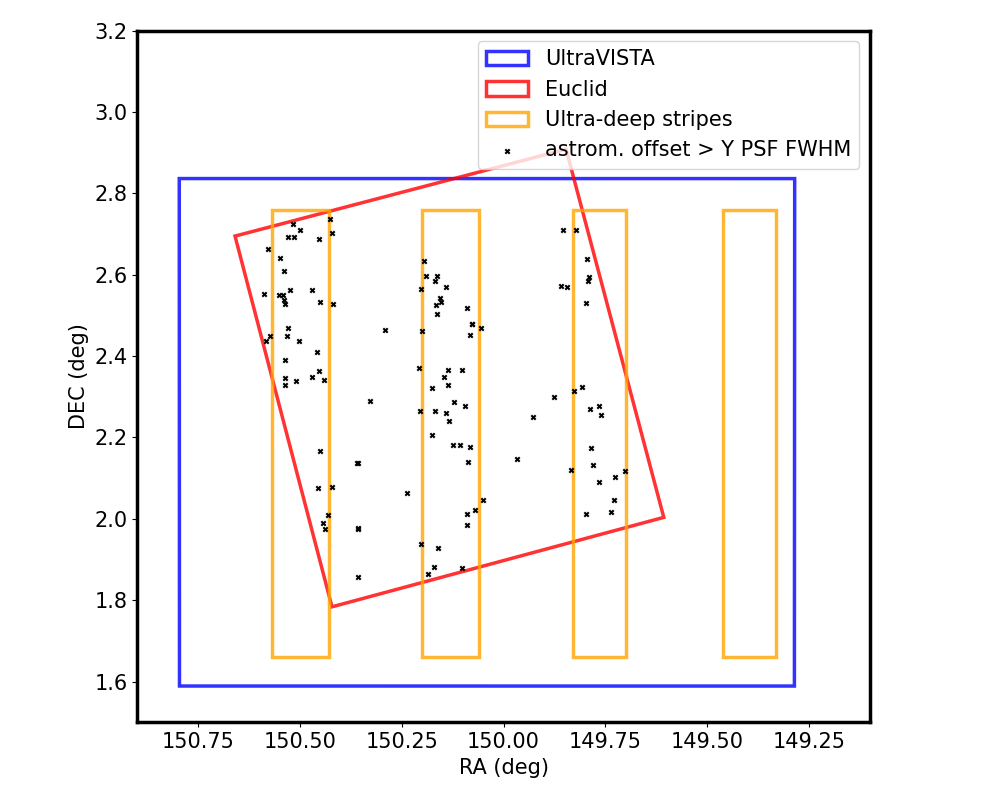
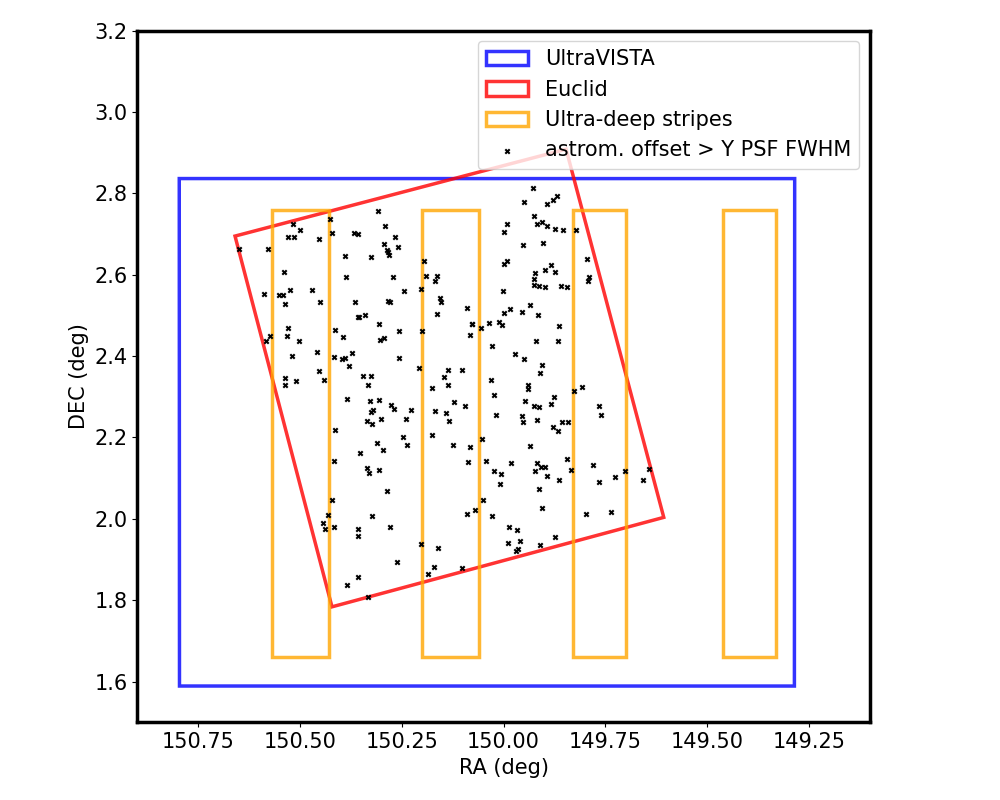
added jwst astrometry check

diff --git a/src/validation/astrometric_accurary.py b/src/validation/astrometric_accurary.py
@@ -21,8 +21,19 @@ plt.rcParams['figure.dpi'] = 100
 stars_dir = Path.cwd().parent.parent / 'data' / 'ref_catalogues' / 'stars'
 plot_dir = Path.cwd().parent.parent / 'plots' / 'astrometry'
 
-# Run Gaia crossmatched stars or VISTA crossmatched stars? If False, run VISTA
+# Run Gaia crossmatched stars?
 gaia = False
+
+# Run VISTA crossmatches stars?
+vista = False
+
+# rUN JWST crossmatched stars?
+jwst = True
+jwst_filter_dict = {
+    'Y': 'f115w',
+    'J': 'f150w',
+    'H': 'f200w'
+}
 
 psf_fwhm = [0.48, 0.51, 0.55] # Taken from pipeline PSFs, psf_fwhm_plots.py 0.21, 
 
@@ -36,17 +47,22 @@ for i, filter_name in enumerate(filter_names):
     if gaia:
         stars_file = stars_dir / f'{filter_name}_euclid_gaia_coords.ascii' #! Stars used for PSFEx 
         #stars_file = stars_dir / f'{filter_name}_brightEuclid_gaia_coords.ascii' #! Brighter stars (inc. saturated)
-    else:
+    if vista:
         stars_file = stars_dir / f'{filter_name}_vista_euclid_coords.ascii'
+    if jwst:
+        stars_file = stars_dir / f'{filter_name}_jwst_euclid_coords.ascii'
     stars = ascii.read(stars_file)
 
     # Calculate the difference between the RA and DEC
     if gaia:
         delta_ra = stars['RA_euclid'] - stars['RA_Gaia']
         delta_dec = stars['DEC_euclid'] - stars['DEC_Gaia']
-    else:
+    if vista:
         delta_ra = stars['RA_euclid'] - stars['RA_vista']
         delta_dec = stars['DEC_euclid'] - stars['DEC_vista']
+    if jwst:
+        delta_ra = stars['RA_jwst'] - stars['RA_euclid']
+        delta_dec = stars['DEC_jwst'] - stars['DEC_euclid']
 
     # Convert delta coords to arcsec
     delta_ra *= 3600
@@ -59,8 +75,10 @@ for i, filter_name in enumerate(filter_names):
     plt.ylabel(r'$\Delta \mathrm{Dec \ (as)}$')
     if gaia:
         plt.title(f'{filter_name} - Euclid vs Gaia')
-    else:
+    if vista:
         plt.title(f'{filter_name} - Euclid vs VISTA')
+    if jwst:
+        plt.title(f'{filter_name} - Euclid vs JWST ({jwst_filter_dict[filter_name]})')
 
     # Plot a circle corresponding to the Euclid pixel scale
     circle1 = plt.Circle((0, 0), 0.1/2, color='r', fill=False, linewidth=2.5)
@@ -73,7 +91,8 @@ for i, filter_name in enumerate(filter_names):
     # Find the subset of stars that lie outside the Euclid pixel scale and the FWHM
     outside = np.where((np.sqrt(delta_ra**2 + delta_dec**2) > psf_fwhm[filter_names.index(filter_name)]/2))[0]
 
-    print(len(outside))
+    # How many bad objects?
+    #print(len(outside))
 
     # Plot these in red on the plot
     plt.scatter(delta_ra[outside], delta_dec[outside], s=1, marker='x', color='red', alpha=0.6)
@@ -81,16 +100,25 @@ for i, filter_name in enumerate(filter_names):
     # Save these to a file
     if gaia:
         outside_file = stars_dir / f'{filter_name}_outside_pixscale_euclid_gaia_coords.ascii'
-    else:
+    if vista:
         outside_file = stars_dir / f'{filter_name}_outside_pixscale_vista_euclid_coords.ascii'
+    if jwst:
+        outside_file = stars_dir / f'{filter_name}_outside_pixscale_jwst_euclid_coords.ascii'
 
     with open(outside_file, 'w') as f:
-        f.write('# RA_euclid DEC_euclid RA_vista DEC_vista\n')
+        if vista:
+            f.write('# RA_euclid DEC_euclid RA_vista DEC_vista\n')
+        if gaia:
+            f.write('# RA_euclid DEC_euclid RA_Gaia DEC_Gaia\n')
+        if jwst:
+            f.write('# RA_euclid DEC_euclid RA_jwst DEC_jwst\n')
         for i in outside:
             if gaia:
                 f.write(f'{stars["RA_euclid"][i]} {stars["DEC_euclid"][i]} {stars["RA_Gaia"][i]} {stars["DEC_Gaia"][i]}\n')
-            else:
+            if vista:
                 f.write(f'{stars["RA_euclid"][i]} {stars["DEC_euclid"][i]} {stars["RA_vista"][i]} {stars["DEC_vista"][i]}\n')
+            if jwst:
+                f.write(f'{stars["RA_euclid"][i]} {stars["DEC_euclid"][i]} {stars["RA_jwst"][i]} {stars["DEC_jwst"][i]}\n')
 
     # Dummy plots for the legend
     plt.plot([-99, -98], [-99, -98], color='r', lw=2.5, label='Euclid pixel scale')
@@ -104,11 +132,12 @@ for i, filter_name in enumerate(filter_names):
     plt.tight_layout()
     plt.legend()
 
-    #if gaia:
-    #    plt.savefig(plot_dir / f'{filter_name}_bright_delta_ra_dec.png')
-    #else:
-    #    plt.savefig(plot_dir / f'VISTA_{filter_name}_delta_ra_dec.png')
-    #plt.close()
+    if gaia:
+        plt.savefig(plot_dir / f'{filter_name}_bright_delta_ra_dec.png')
+    if vista:
+        plt.savefig(plot_dir / f'VISTA_{filter_name}_delta_ra_dec.png')
+    if jwst:
+        plt.savefig(plot_dir / f'JWST_{filter_name}_{jwst_filter_dict[filter_name]}_delta_ra_dec.png')
 
     plt.show()
-    #plt.close()
+    plt.close()

diff --git a/src/validation/crossmatch_jwst_stars.py b/src/validation/crossmatch_jwst_stars.py
@@ -1,0 +1,60 @@
+#!/usr/bin/env python3
+
+"""
+crossmatch_jwst_stars.py
+
+Created: Wednesday 17th April 2024.
+"""
+
+
+from astropy.io import fits, ascii
+from astropy.table import Table
+from pathlib import Path
+import astropy.units as u
+from astropy.coordinates import SkyCoord
+
+jwst_dir = Path.home().parent.parent / 'vardy' / 'vardygroupshare' / 'data' / 'psf' / 'COSMOS' / 'catalogues'
+euclid_dir = Path.cwd().parent.parent / 'data' / 'psf' / 'COSMOS' / 'catalogues'
+save_dir = Path.cwd().parent.parent / 'data' / 'ref_catalogues' / 'stars'
+
+filter_names = ['Y', 'J', 'H']
+jwst_filters = ['f115w', 'f150w', 'f200w']
+
+for i, filter_name in enumerate(filter_names):
+
+    # Open corresponding jwst stars catalogue
+    jwst_stars_file = jwst_dir / f'{jwst_filters[i]}_stars.fits'
+    jwst_stars = Table.read(jwst_stars_file)
+    print(jwst_stars)
+
+    jwst_ra, jwst_dec = jwst_stars['ALPHA_J2000'], jwst_stars['DELTA_J2000']
+
+    # And the euclid stars
+    euclid_stars_file = euclid_dir / f'{filter_name}_stars.ascii'
+    euclid_stars = ascii.read(euclid_stars_file)
+
+    euclid_ra, euclid_dec = euclid_stars['RA'], euclid_stars['DEC']
+
+    # Crossmatch between jwst and euclid coords within 2 arcsec
+    jwst_coords = SkyCoord(ra=jwst_ra, dec=jwst_dec, unit=(u.deg, u.deg))
+    euclid_coords = SkyCoord(ra=euclid_ra, dec=euclid_dec, unit=(u.deg, u.deg))
+
+    idx_jwst, idx_euclid, d2d, d3d = euclid_coords.search_around_sky(jwst_coords, seplimit=2*u.arcsec)
+
+    # Write matches to a new file with both coordinates
+    crossmatch_file = save_dir / f'{filter_name}_jwst_euclid_coords.ascii'
+
+    with open(crossmatch_file, 'w') as f:
+            
+            # Add header for RA_jwst, DEC_jwst, RA_euclid, DEC_euclid
+            f.write('# RA_jwst DEC_jwst RA_euclid DEC_euclid\n')
+    
+            for i, idx in enumerate(idx_jwst):
+                f.write(f'{jwst_ra[idx]} {jwst_dec[idx]} {euclid_ra[idx_euclid[i]]} {euclid_dec[idx_euclid[i]]}\n')
+
+    print(f'Filter {filter_name} done.')
+
+
+
+
+        

diff --git a/src/validation/bad_astrom_on_footprint.py b/src/validation/bad_astrom_on_footprint.py
@@ -22,8 +22,10 @@ plt.rcParams['figure.dpi'] = 100
 euclid_dir = Path.home() / 'euclid' / 'Y' / 'COSMOS'
 stars_dir = Path.cwd().parent.parent / 'data' / 'ref_catalogues' / 'stars'
 
-
 images = glob.glob(str(euclid_dir / '*BGSUB-*'))
+
+# Compare against VISTA or JWST? If true, compare against VISTA
+vista = False
 
 # List to store centroid coordinates and corresponding image filenames
 centroid_list = []
@@ -59,20 +61,13 @@ ax = plt.subplot()
 # # Plot the images in sorted order
 # for i, (centroid_x, centroid_y, image) in enumerate(centroid_list):
 #     with fits.open(image) as hdul:
-        
 #         tile = image.split('TILE_')[-1].split('.fits')[0]
 #         tile_index_map[tile] = i + 1
-
 #         header = hdul[0].header
-
 #         wcs = WCS(header)
 #         footprint = wcs.calc_footprint()
-
-
-
 #         r = Polygon(np.array(footprint), closed=True, edgecolor='r', facecolor='none', lw=2.5, alpha=0.8)
 #         ax.add_patch(r)
-
 #         ax.text(centroid_x, centroid_y, str(i + 1), color='black', ha='center', va='center')
 
 
@@ -96,10 +91,15 @@ e = Polygon(np.array([[150.6599884,2.6947483], [149.8463557,2.9082861], [149.606
 ax.add_patch(e)
 
 #! Plot positions of large offset stars
-filter_name = 'J'
-stars = ascii.read(stars_dir / f'{filter_name}_outside_pixscale_vista_euclid_coords.ascii')
-stars_ra = stars['RA_vista']
-stars_dec = stars['DEC_vista']
+filter_name = 'Y'
+if vista:
+    stars = ascii.read(stars_dir / f'{filter_name}_outside_pixscale_vista_euclid_coords.ascii')
+    stars_ra = stars['RA_vista']
+    stars_dec = stars['DEC_vista']
+else:
+    stars = ascii.read(stars_dir / f'{filter_name}_outside_pixscale_jwst_euclid_coords.ascii')
+    stars_ra = stars['RA_jwst']
+    stars_dec = stars['DEC_jwst']
 
 #! Plot the ultra-deep stripes
 strip1 = Polygon(np.array([[150.43, 2.76], [150.57, 2.76], [150.57, 1.66], [150.43, 1.66]]), closed=True, edgecolor='orange', facecolor='none', lw=2.5, alpha=0.8)

diff --git a/src/cutouts/cutout_codes.py b/src/cutouts/cutout_codes.py
@@ -578,13 +578,13 @@ def Cutout(ra: float, dec:float, contained_in: Optional[np.array] = None, size: 
 if __name__ == '__main__':
     
     #! REBELS sources
-    t = ascii.read(Path.cwd().parent.parent / 'data' / 'mosaic' / 'REBELS.csv', format='csv')
-    t = t[t['RA'] > 148]
-    ra = t['RA']
-    dec = t['Dec']
-    z = t['Redshift (z)']
-    ID = t['Object Name']
-    ID = [name.split('>')[1].split('<')[0] for name in ID]
+    # t = ascii.read(Path.cwd().parent.parent / 'data' / 'mosaic' / 'REBELS.csv', format='csv')
+    # t = t[t['RA'] > 148]
+    # ra = t['RA']
+    # dec = t['Dec']
+    # z = t['Redshift (z)']
+    # ID = t['Object Name']
+    # ID = [name.split('>')[1].split('<')[0] for name in ID]
 
     #! Strong lens
     #ra = [150.00280406167596]
@@ -656,6 +656,12 @@ if __name__ == '__main__':
     # ra = stars['RA_euclid']
     # dec = stars['DEC_euclid']
 
+    #! Couple bad JWST astrometry sources
+    stars_dir = Path.cwd().parent.parent / 'data' / 'ref_catalogues' / 'stars'
+    stars = ascii.read(stars_dir / f'H_outside_pixscale_jwst_euclid_coords.ascii')
+    ra = stars['RA_euclid']
+    dec = stars['DEC_euclid'] 
+
 
 
 
@@ -663,11 +669,11 @@ if __name__ == '__main__':
 
         #print(cat[i]['zBest'])
         #print(cat[i]['FIRST_CLASS'])
-        print(ID[i])
+        #print(ID[i])
 
         #Cutout(ra[i], dec[i], size=6., plot_title=ID[i] + ', z=' + str(z[i]))
         #Cutout(ra[i], dec[i], size=10.)
-        Cutout(ra[i], dec[i], size=6., plot_title=ID[i], add_centre_lines=True)
+        Cutout(ra[i], dec[i], size=6., add_centre_lines=True)
 
 
     
